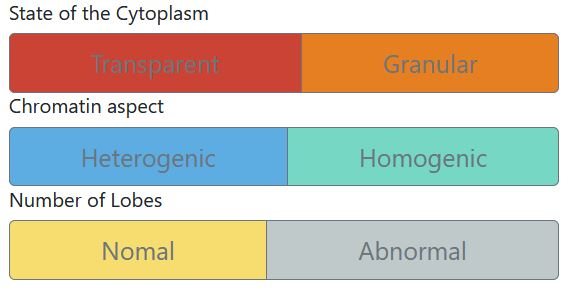
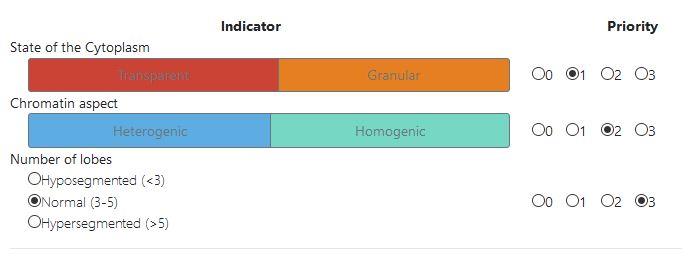
updated Readme/.dockerignore/ about.md

diff --git a/app_V4.py b/app_V4.py
@@ -16,6 +16,7 @@ from skimage import io
 # from skimage import data
 import json
 import fnmatch
+import copy
 
 # from skimage import io as skio
 
@@ -461,7 +462,7 @@ tools_tab = [
                             dbc.ButtonGroup(
                                 [
                                     dbc.Button(
-                                        "Image Path",
+                                        "Update Image Path",
                                         id="path-button",
                                         outline=True,
                                     ),
@@ -826,7 +827,9 @@ def change_image(next_b, prev_b, path_2, stroke_width_value, graph_relayoutData,
             image_saved_data = masks_data
         mark_flag = False
         print(masks_data)
-        return ("FILE NAME: " + data[image_index]), image_index, fig_out, masks_data, mark_flag, stroke_color_memory,image_saved_data
+        return_val=copy.deepcopy(image_index)
+        return_val=return_val +1
+        return ("FILE NAME: " + data[image_index] +' - '+ str(return_val) + '/'+ str(len(data))), image_index, fig_out, masks_data, mark_flag, stroke_color_memory,image_saved_data
 
     elif 'previous-image-button' in changed_id:
         # save current data
@@ -866,7 +869,9 @@ def change_image(next_b, prev_b, path_2, stroke_width_value, graph_relayoutData,
             image_saved_data = masks_data
         mark_flag = False
         print(masks_data)
-        return ("FILE NAME: " + data[image_index]), (image_index), fig_out, masks_data, mark_flag, stroke_color_memory,image_saved_data
+        return_val = copy.deepcopy(image_index)
+        return_val=return_val+1
+        return ("FILE NAME: " + data[image_index] +' - '+ str(return_val) + '/'+ str(len(data))), (image_index), fig_out, masks_data, mark_flag, stroke_color_memory,image_saved_data
 
     elif 'directory-images' in changed_id:
         print(i)
@@ -893,7 +898,9 @@ def change_image(next_b, prev_b, path_2, stroke_width_value, graph_relayoutData,
                 stroke_width=stroke_width,
             )
         mark_flag = False
-        return ("FILE NAME: " + data[image_index]), (image_index), fig_out, masks_data, mark_flag, stroke_color_memory,image_saved_data
+        return_val = copy.deepcopy(image_index)
+        return_val=return_val+1
+        return ("FILE NAME: " + data[image_index] +' - '+ str(return_val) + '/'+ str(len(data))), (image_index), fig_out, masks_data, mark_flag, stroke_color_memory,image_saved_data
     else:
         image_index = i
 
@@ -928,7 +935,9 @@ def change_image(next_b, prev_b, path_2, stroke_width_value, graph_relayoutData,
             stroke_width=stroke_width,
             shapes=masks_data["shapes"]
         )
-        return ("FILE NAME: " + data[image_index]), image_index, fig_out, masks_data, mark_flag, stroke_color_memory,dash.no_update
+        return_val = copy.deepcopy(image_index)
+        return_val= return_val+1
+        return ("FILE NAME: " + data[image_index] +' - '+ str(return_val) + '/'+ str(len(data))), image_index, fig_out, masks_data, mark_flag, stroke_color_memory,dash.no_update
 
 
 def save_image_annotation(mark_flag, path, data_name, shapes, save_image, condition, priority, lobe_info):

diff --git a/app_V5.py b/app_V5.py
@@ -16,6 +16,7 @@ from skimage import io
 # from skimage import data
 import json
 import fnmatch
+import copy
 
 # from skimage import io as skio
 
@@ -461,7 +462,7 @@ tools_tab = [
                             dbc.ButtonGroup(
                                 [
                                     dbc.Button(
-                                        "Image Path",
+                                        "Update Image Path",
                                         id="path-button",
                                         outline=True,
                                     ),
@@ -827,7 +828,9 @@ def change_image(next_b, prev_b, path_2, stroke_width_value, graph_relayoutData,
             image_saved_data = masks_data
         mark_flag = False
         print(masks_data)
-        return ("FILE NAME: " + data[image_index]), image_index, fig_out, masks_data, mark_flag, stroke_color_memory,image_saved_data
+        return_val=copy.deepcopy(image_index)
+        return_val=return_val +1
+        return ("FILE NAME: " + data[image_index] +' - '+ str(return_val) + '/'+ str(len(data))), image_index, fig_out, masks_data, mark_flag, stroke_color_memory,image_saved_data
 
     elif 'previous-image-button' in changed_id:
         # save current data
@@ -867,7 +870,9 @@ def change_image(next_b, prev_b, path_2, stroke_width_value, graph_relayoutData,
             image_saved_data = masks_data
         mark_flag = False
         print(masks_data)
-        return ("FILE NAME: " + data[image_index]), (image_index), fig_out, masks_data, mark_flag, stroke_color_memory,image_saved_data
+        return_val = copy.deepcopy(image_index)
+        return_val=return_val+1
+        return ("FILE NAME: " + data[image_index] +' - '+ str(return_val) + '/'+ str(len(data))), (image_index), fig_out, masks_data, mark_flag, stroke_color_memory,image_saved_data
 
     elif 'directory-images' in changed_id:
         print(i)
@@ -894,7 +899,9 @@ def change_image(next_b, prev_b, path_2, stroke_width_value, graph_relayoutData,
                 stroke_width=stroke_width,
             )
         mark_flag = False
-        return ("FILE NAME: " + data[image_index]), (image_index), fig_out, masks_data, mark_flag, stroke_color_memory,image_saved_data
+        return_val = copy.deepcopy(image_index)
+        return_val=return_val+1
+        return ("FILE NAME: " + data[image_index] +' - '+ str(return_val) + '/'+ str(len(data))), (image_index), fig_out, masks_data, mark_flag, stroke_color_memory,image_saved_data
     else:
         image_index = i
 
@@ -929,7 +936,9 @@ def change_image(next_b, prev_b, path_2, stroke_width_value, graph_relayoutData,
             stroke_width=stroke_width,
             shapes=masks_data["shapes"]
         )
-        return ("FILE NAME: " + data[image_index]), image_index, fig_out, masks_data, mark_flag, stroke_color_memory,dash.no_update
+        return_val = copy.deepcopy(image_index)
+        return_val= return_val+1
+        return ("FILE NAME: " + data[image_index] +' - '+ str(return_val) + '/'+ str(len(data))), image_index, fig_out, masks_data, mark_flag, stroke_color_memory,dash.no_update
 
 
 def save_image_annotation(mark_flag, path, data_name, shapes, save_image, condition, priority, lobe_info):

diff --git a/assets/About.md b/assets/About.md
@@ -20,14 +20,14 @@ Other factors to bear in mind are:
 ![Healthy cell vs Dysplastic cell](/assets/images/healthy_vs_displastic.jpg)
 
 This app allows the user to annotate and classify areas in an image. 
-- Select an image directory
 - Navigate the images in directory 
 - Freehand draw, using the mouse to highlight specific areas of the image.
-- Select annotation type Cytoplasm(Granules / Transparent), Chromatin (Heterogenic / Homogenic), Nº of Lobes (Normal / Abnormal)
+- Select annotation type Cytoplasm(Granular / Transparent), Chromatin (Heterogenic / Homogenic), Nº of Lobes (Hyposegmented/ Normal / Hypersegmented)
+- Select the priority of each characteristic when deciding if a cell is Healthy or presents Dysplacia.
 - Export the annotations made as a txt file (json format) and as an image.
 
 ## How to use this app
-The first step is to select the path to the directory where the images are stored by clicking on `Image Path`. A pop up explorer window will appear and allow the user to navigate and select the correct directory.
+The first step is to update the path directoryehre the images are stores by clicking on `Update Image Path`. 
 
 To annotate the image, first select the annotation label you want to apply: 
 
@@ -45,7 +45,17 @@ Additional annotations can be made by selecting a new label and highlighting the
 
 ![Screenshot of_additional_annotation](/assets/images/additional_annotation.jpg)
 
+In order to classify the images correctly, it is important to select the decision criteria priority by clicking on the radio butons  `priority - 0(null) / 1(max) / 2 / 3(min)`
+
+The user can also state if a cell is dysplactic or healthy by the redio button  `Cell condition`
+
+![Screenshot of_Cell_condition](/assets/images/cell_condition.jpg)
+
 To select a different image the press on the `previous` and `next`. The current annotations made on the image will be stored in a txt file in the same directory as the image source. An image with the annotations will also be stored will aso be stored .
+
+![Screenshot of_Navigation](/assets/images/navigation.jpg)
+
+To download an image with the annotations and/or info entered press on the check boxes `Save annotation` `Save_title` respectively
 
 To erase an already made annotation click of the desired annotation and then hit the errase button on the top of the image editor.
 

diff --git a/README.md b/README.md
@@ -1,7 +1,15 @@
 # Dash Interactive Image Segmentation
 
 ## About this app
+There are different versions of the app
 
+The currect working versions are:
+    - app_V4.py (works with windows file system)
+    - app_v5.py (works with unix file system - version to create the docker)
+
+The folder assets contains all the necessary assets for the app to run.
+
+The dokerfile is used to convert the app into a docker image.
 
 ## How to run this app locally
 
@@ -20,7 +28,7 @@ source myvenv/bin/activate
 Install the requirements
 
 ```bash
-pip install -r requirementsold.txt
+pip install -r requirements.txt
 ```
 
 Run the app. An IP address where you can view the app in your browser will be
